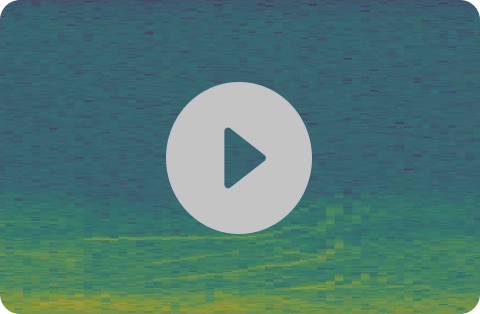
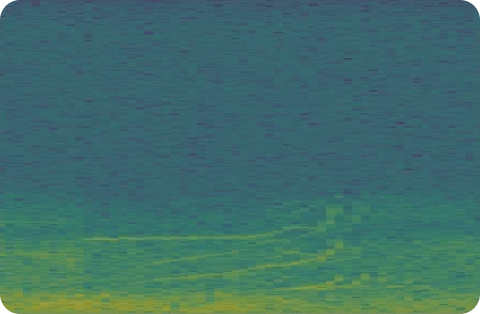
feature: add playbutton for orca-call

Changed region(s): [[0.3438, 0.258, 0.6562, 0.7452]]

diff --git a/src/pages/learn.jsx b/src/pages/learn.jsx
@@ -1,7 +1,5 @@
-import Box from '@mui/material/Box'
-import Grid from '@mui/material/Grid'
-import Button from '@mui/material/Button'
-import Typography from '@mui/material/Typography'
+import PlayCircleIcon from '@mui/icons-material/PlayCircle'
+import { Box, Button, Grid, IconButton, Typography } from '@mui/material'
 import Head from 'next/head'
 import Image from 'next/image'
 import ReactAudioPlayer from 'react-audio-player'
@@ -9,9 +7,9 @@ import ReactAudioPlayer from 'react-audio-player'
 import audio from '../../public/audio/frequency.mp3'
 import frequency1 from '../../public/images/frequency2.png'
 import LearnBanner from '../../public/images/learn.jpg'
+import OrcaSound from '../../public/images/learn/orcasound.png'
 import organization1 from '../../public/images/partner1.png'
 import organization2 from '../../public/images/partner2.png'
-import OrcaSound from '../../public/images/learn/orcasound.png'
 import roundorca from '../../public/images/roundorca.png'
 import salishsea from '../../public/images/salishsea.png'
 import TopBanner from '../components/TopBanner'
@@ -145,6 +143,9 @@ export const learn = () => {
             {Array.from(Array(6)).map((_, index) => (
               <Grid item xs={2} sm={4} md={4} key={index}>
                 <Image src={OrcaSound} alt="Orca Call" />
+                <IconButton>
+                  <PlayCircleIcon fontSize="large" />
+                </IconButton>
               </Grid>
             ))}
           </Grid>
